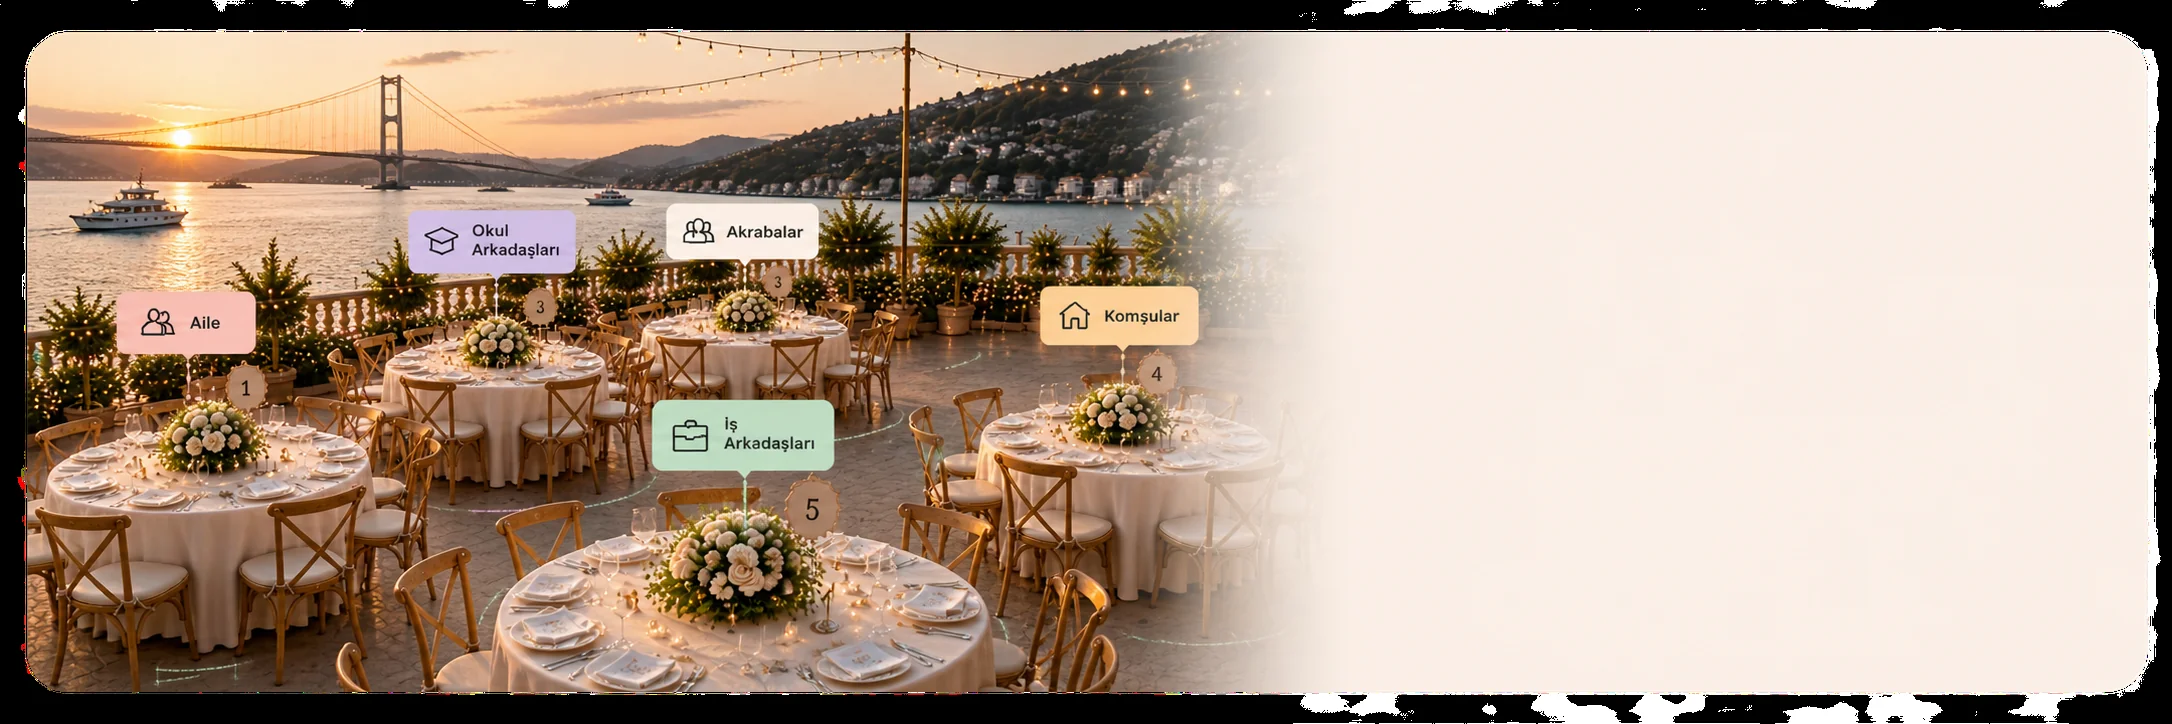
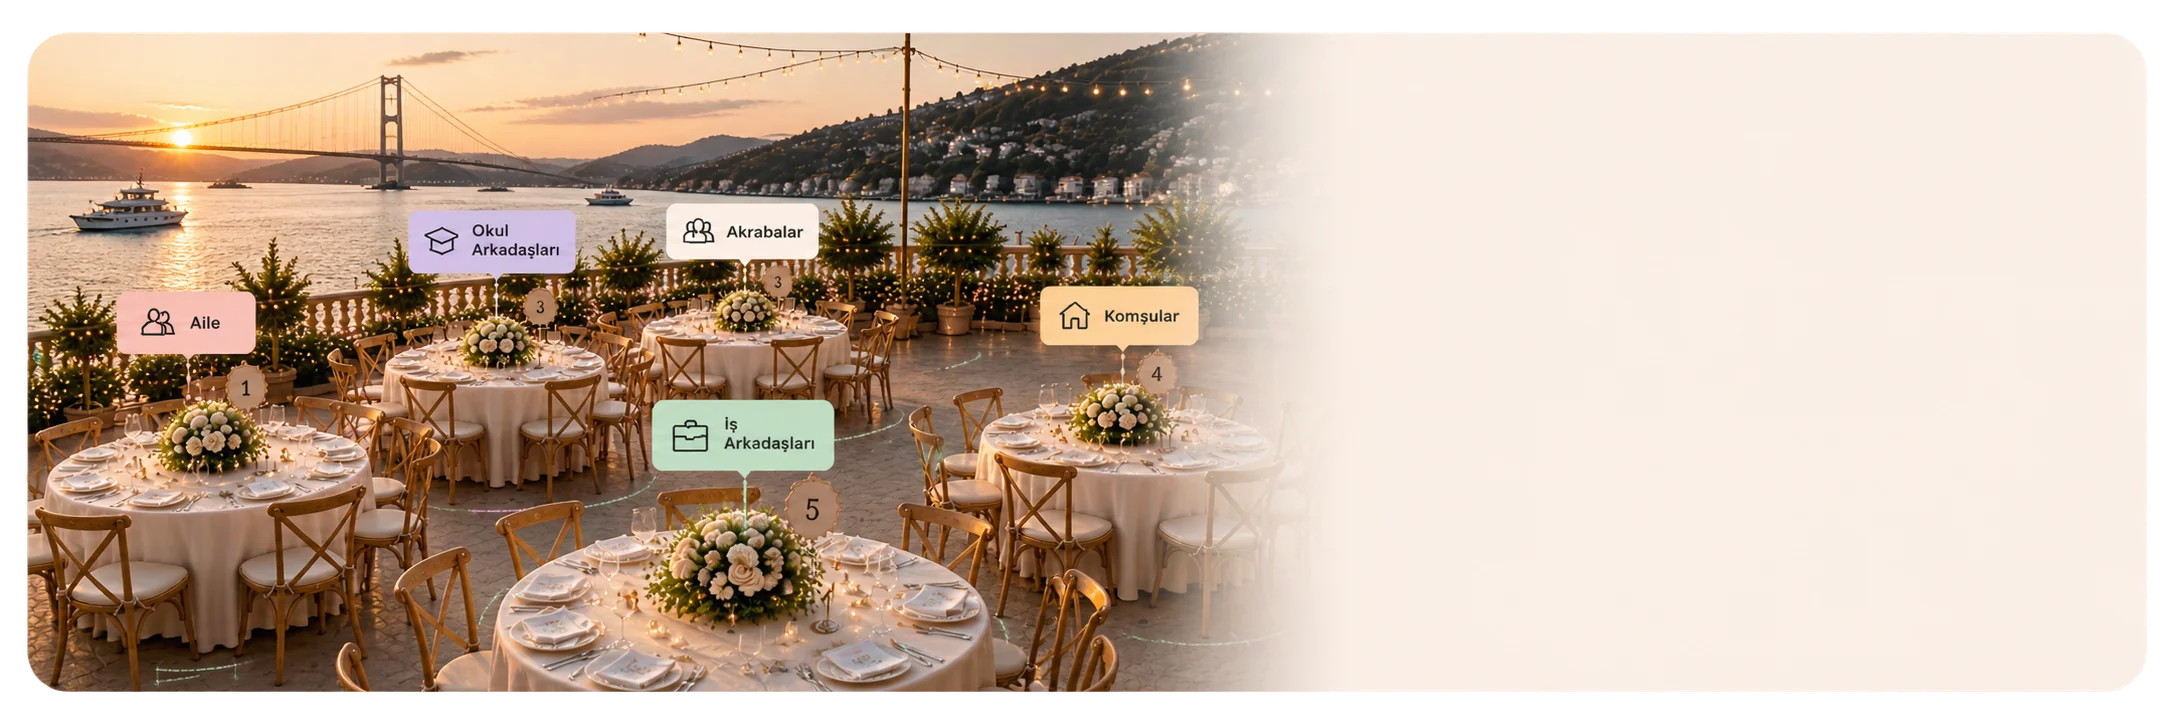
Masa kartı masaüstü: RGBA (siyah bg gitti) + transparan-kart + yazı sağa; masa cümle/ikon sırası (Davetli Takibi·Akıllı Yerleşim·Kolay Düzenleme) mobil+masaüstü; albüm masaüstü Tebrik hizası; Neden Nikahım 6 kart reorder + masa 2 ikon/yeni içerik

Changed region(s): [[0.0, 0.0, 1.0, 1.0]]

diff --git a/app/page.tsx b/app/page.tsx
@@ -1078,11 +1078,11 @@ export default function Home() {
               <h3 className="leading-[1.04]" style={{ fontFamily: 'var(--font-playfair)', color: '#C8686E', fontWeight: 600, fontSize: 'clamp(26px,7.2vw,38px)' }}>Masa düzeniniz,</h3>
               <h3 className="leading-[1.1] mt-0.5" style={{ fontFamily: 'var(--font-playfair)', color: '#1F1F1F', fontWeight: 600, fontSize: 'clamp(19px,5.2vw,28px)' }}>zahmetsizce hazır.</h3>
               <div className="mt-[clamp(8px,2.4vw,11px)]" style={{ width: 'clamp(44px,11vw,60px)', height: '2px', background: '#C8686E', borderRadius: '2px' }} />
-              <p className="mt-[clamp(8px,2.4vw,11px)] leading-relaxed" style={{ color: '#6E5A5A', fontSize: 'clamp(12px,3.3vw,13.5px)', maxWidth: '96%' }}>Davetlilerinizi ekleyin. Akıllı planlayıcı, herkes için en uygun masa düzenini oluştursun.</p>
+              <p className="mt-[clamp(8px,2.4vw,11px)] leading-relaxed" style={{ color: '#6E5A5A', fontSize: 'clamp(12px,3.3vw,13.5px)', maxWidth: '96%' }}>Katılımları takip edin, davetlilerinizi ekleyin. Akıllı planlayıcı, herkes için en uygun masa düzenini oluştursun.</p>
               <div className="grid grid-cols-3 gap-2 mt-[clamp(13px,3.6vw,18px)]">
                 {[
+                  { label: 'Davetli Takibi', icon: <svg className="w-[clamp(16px,4.5vw,19px)] h-[clamp(16px,4.5vw,19px)]" fill="none" stroke="currentColor" strokeWidth={1.8} viewBox="0 0 24 24"><path strokeLinecap="round" strokeLinejoin="round" d="M17 20h5v-2a4 4 0 00-3-3.87M9 20H4v-2a4 4 0 013-3.87m6-3.13a4 4 0 100-8 4 4 0 000 8zm6 0a3 3 0 100-6 3 3 0 000 6zm-12 0a3 3 0 100-6 3 3 0 000 6z" /></svg> },
                   { label: 'Akıllı Yerleşim', icon: <svg className="w-[clamp(16px,4.5vw,19px)] h-[clamp(16px,4.5vw,19px)]" fill="none" stroke="currentColor" strokeWidth={1.8} viewBox="0 0 24 24"><path strokeLinecap="round" strokeLinejoin="round" d="M12 2.5l1.8 5.2 5.2 1.8-5.2 1.8L12 16.5l-1.8-5.2L5 9.5l5.2-1.8z" /></svg> },
-                  { label: 'Davetli Yönetimi', icon: <svg className="w-[clamp(16px,4.5vw,19px)] h-[clamp(16px,4.5vw,19px)]" fill="none" stroke="currentColor" strokeWidth={1.8} viewBox="0 0 24 24"><path strokeLinecap="round" strokeLinejoin="round" d="M17 20h5v-2a4 4 0 00-3-3.87M9 20H4v-2a4 4 0 013-3.87m6-3.13a4 4 0 100-8 4 4 0 000 8zm6 0a3 3 0 100-6 3 3 0 000 6zm-12 0a3 3 0 100-6 3 3 0 000 6z" /></svg> },
                   { label: 'Kolay Düzenleme', icon: <svg className="w-[clamp(16px,4.5vw,19px)] h-[clamp(16px,4.5vw,19px)]" fill="none" stroke="currentColor" strokeWidth={1.8} viewBox="0 0 24 24"><path strokeLinecap="round" strokeLinejoin="round" d="M5 9l-3 3 3 3M9 5l3-3 3 3M15 19l-3 3-3-3M19 9l3 3-3 3M2 12h20M12 2v20" /></svg> },
                 ].map((b, i) => (
                   <div key={i} className="flex flex-col items-center text-center gap-1.5">
@@ -1093,20 +1093,20 @@ export default function Home() {
               </div>
             </div>
           </div>
-          {/* Masaüstü kart — görsel SOLDA, içerik SAĞDA */}
-          <div className="feature-card-hover hidden lg:block relative rounded-[28px] overflow-hidden mx-auto w-full lg:aspect-[3/1] lg:max-w-none" style={{ boxShadow: '0 18px 50px rgba(72,47,42,0.055), 0 2px 8px rgba(72,47,42,0.025)', border: '1px solid rgba(174,112,108,0.13)' }}>
-            <img src="/kart-masa-masaustu.webp" alt="Akıllı masa planlayıcısı" className="hidden lg:block absolute inset-0 w-full h-full object-cover pointer-events-none select-none" />
-            {/* Masaüstü — metin SAĞDA ortalı */}
-            <div className="hidden lg:flex absolute right-0 top-0 h-full w-[46%] flex-col justify-center pr-[100px] pl-6">
+          {/* Masaüstü kart — görsel SOLDA (transparan yuvarlak kart), içerik SAĞDA */}
+          <div className="feature-card-hover hidden lg:block relative mx-auto w-full lg:aspect-[3/1] lg:max-w-none">
+            <img src="/kart-masa-masaustu.webp" alt="Akıllı masa planlayıcısı" className="hidden lg:block absolute inset-0 w-full h-full object-contain pointer-events-none select-none" style={{ filter: 'drop-shadow(0 14px 34px rgba(72,47,42,0.09))' }} />
+            {/* Masaüstü — metin SAĞDA (krem alanda) */}
+            <div className="hidden lg:flex absolute right-0 top-0 h-full w-[40%] flex-col justify-center pr-[64px] pl-2">
               <div className="mb-5"><FeatureBadge label="AKILLI MASA PLANLAYICISI" /></div>
               <h3 className="leading-[1.06]" style={{ fontFamily: 'var(--font-playfair)', color: '#C8686E', fontWeight: 600, fontSize: 'clamp(24px, 2.2vw, 36px)' }}>Masa düzeniniz,</h3>
               <h3 className="leading-[1.1] mt-1" style={{ fontFamily: 'var(--font-playfair)', color: '#1F1F1F', fontWeight: 600, fontSize: 'clamp(19px, 1.8vw, 28px)' }}>zahmetsizce hazır.</h3>
               <div className="mt-3 mb-3" style={{ width: '60px', height: '2px', background: '#C8686E', borderRadius: '2px' }} />
-              <p className="leading-snug text-[13px] lg:text-[14px] mb-5 max-w-[420px]" style={{ color: '#6E5A5A' }}>Davetlilerinizi ekleyin. Akıllı planlayıcı,<br />herkes için en uygun masa düzenini oluştursun.</p>
+              <p className="leading-snug text-[13px] lg:text-[14px] mb-5 max-w-[420px]" style={{ color: '#6E5A5A' }}>Katılımları takip edin, davetlilerinizi ekleyin. Akıllı planlayıcı, herkes için en uygun masa düzenini oluştursun.</p>
               <div className="flex flex-col gap-3 items-start">
                 {[
+                  { label: 'Davetli Takibi', icon: <svg className="w-[17px] h-[17px]" fill="none" stroke="currentColor" strokeWidth={1.8} viewBox="0 0 24 24"><path strokeLinecap="round" strokeLinejoin="round" d="M17 20h5v-2a4 4 0 00-3-3.87M9 20H4v-2a4 4 0 013-3.87m6-3.13a4 4 0 100-8 4 4 0 000 8zm6 0a3 3 0 100-6 3 3 0 000 6zm-12 0a3 3 0 100-6 3 3 0 000 6z" /></svg> },
                   { label: 'Akıllı Yerleşim', icon: <svg className="w-[17px] h-[17px]" fill="none" stroke="currentColor" strokeWidth={1.8} viewBox="0 0 24 24"><path strokeLinecap="round" strokeLinejoin="round" d="M12 2.5l1.8 5.2 5.2 1.8-5.2 1.8L12 16.5l-1.8-5.2L5 9.5l5.2-1.8z" /></svg> },
-                  { label: 'Davetli Yönetimi', icon: <svg className="w-[17px] h-[17px]" fill="none" stroke="currentColor" strokeWidth={1.8} viewBox="0 0 24 24"><path strokeLinecap="round" strokeLinejoin="round" d="M17 20h5v-2a4 4 0 00-3-3.87M9 20H4v-2a4 4 0 013-3.87m6-3.13a4 4 0 100-8 4 4 0 000 8zm6 0a3 3 0 100-6 3 3 0 000 6zm-12 0a3 3 0 100-6 3 3 0 000 6z" /></svg> },
                   { label: 'Kolay Düzenleme', icon: <svg className="w-[17px] h-[17px]" fill="none" stroke="currentColor" strokeWidth={1.8} viewBox="0 0 24 24"><path strokeLinecap="round" strokeLinejoin="round" d="M5 9l-3 3 3 3M9 5l3-3 3 3M15 19l-3 3-3-3M19 9l3 3-3 3M2 12h20M12 2v20" /></svg> },
                 ].map((b, i) => (
                   <div key={i} className="flex items-center gap-2.5">
@@ -1339,8 +1339,8 @@ export default function Home() {
               </div>
             </div>
 
-            {/* SOL — Heading + açıklama + badges (zigzag: yazı solda) */}
-            <div className="absolute left-[20px] top-0 h-full w-[52%] flex flex-col justify-center pl-14 pr-4">
+            {/* SOL — Heading + açıklama + badges (zigzag: yazı solda, Tebrik hizası) */}
+            <div className="absolute left-0 top-0 h-full w-[52%] flex flex-col justify-center pl-[176px] pr-4">
               <div className="mb-5"><FeatureBadge label="FOTOĞRAF ALBÜMÜ" /></div>
               <h3 className="leading-[1.06]" style={{ fontFamily: 'var(--font-playfair)', color: '#C8686E', fontWeight: 600, fontSize: 'clamp(24px, 2.4vw, 36px)' }}>Her açıdan,</h3>
               <h3 className="leading-[1.1] mt-1" style={{ fontFamily: 'var(--font-playfair)', color: '#1F1F1F', fontWeight: 600, fontSize: 'clamp(19px, 1.8vw, 28px)' }}>sizin hikâyeniz.</h3>
@@ -1448,11 +1448,11 @@ export default function Home() {
           <div className="grid md:grid-cols-2 lg:grid-cols-3 gap-6 md:gap-7">
             {[
               { title: 'Canlı Yayın', desc: 'Düğününüz için size özel bir yayın sayfası oluşturulur. Davetliler bağlantıya dokunarak uygulama veya üyelik gerektirmeden yayını izleyebilir. Yayın kaydınız daha sonra tekrar izlenebilir.', badges: ['Özel Yayın Sayfası', 'Uygulamasız Katılım', 'Yayın Kaydı'], icon: <svg className="w-6 h-6" fill="none" stroke="currentColor" viewBox="0 0 24 24"><path strokeLinecap="round" strokeLinejoin="round" strokeWidth={1.8} d="M15 10l4.553-2.276A1 1 0 0121 8.618v6.764a1 1 0 01-1.447.894L15 14M5 18h8a2 2 0 002-2V8a2 2 0 00-2-2H5a2 2 0 00-2 2v8a2 2 0 002 2z" /></svg> },
-              { title: 'Altın Takma', desc: 'Davetliniz takmak istediği altını seçer ve güncel TL karşılığını doğrudan sizin hesabınıza gönderir. Nikahım paraya aracılık etmez ve gönderimden komisyon almaz.', badges: ['Doğrudan Hesabınıza', 'Aracısız', 'Komisyonsuz'], icon: <svg className="w-6 h-6" fill="none" stroke="currentColor" viewBox="0 0 24 24"><path strokeLinecap="round" strokeLinejoin="round" strokeWidth={1.8} d="M4 10h16M5 10L12 4l7 6M6 10v8M10 10v8M14 10v8M18 10v8M4 21h16" /></svg> },
+              { title: 'Akıllı Masa Planlayıcısı', desc: 'Davetli listenizi oluşturun, kimlerin katılacağını tek yerden takip edin. Akıllı planlayıcı, gelen davetlileriniz için en uygun masa düzenini oluştursun.', badges: ['Davetli Takibi', 'Akıllı Yerleşim', 'Sürükle & Düzenle'], dualIcon: true, icon: <svg className="w-6 h-6" fill="none" stroke="currentColor" viewBox="0 0 24 24"><rect x="3" y="3" width="7" height="7" rx="1.5" strokeWidth={1.8} /><rect x="14" y="3" width="7" height="7" rx="1.5" strokeWidth={1.8} /><rect x="3" y="14" width="7" height="7" rx="1.5" strokeWidth={1.8} /><rect x="14" y="14" width="7" height="7" rx="1.5" strokeWidth={1.8} /></svg>, icon2: <svg className="w-6 h-6" fill="none" stroke="currentColor" viewBox="0 0 24 24"><path strokeLinecap="round" strokeLinejoin="round" strokeWidth={1.8} d="M18 18.72a9.094 9.094 0 003.741-.479 3 3 0 00-4.682-2.72m.94 3.198l.001.031c0 .225-.012.447-.037.666A11.944 11.944 0 0112 21c-2.17 0-4.207-.576-5.963-1.584A6.062 6.062 0 016 18.719m12 0a5.971 5.971 0 00-.941-3.197m0 0A5.995 5.995 0 0012 12.75a5.995 5.995 0 00-5.058 2.772m0 0a3 3 0 00-4.681 2.72 8.986 8.986 0 003.74.477m.94-3.197a5.971 5.971 0 00-.94 3.197M15 6.75a3 3 0 11-6 0 3 3 0 016 0zm6 3a2.25 2.25 0 11-4.5 0 2.25 2.25 0 014.5 0zm-13.5 0a2.25 2.25 0 11-4.5 0 2.25 2.25 0 014.5 0z" /></svg> },
               { title: 'Tebrik Mesajları', desc: 'Davetlileriniz size video, sesli veya yazılı tebrik bırakabilir. Gelen tüm mesajları uygulama üzerinden tek yerde görüntüleyebilirsiniz.', badges: ['Video', 'Sesli', 'Yazılı'], dualIcon: true, icon: <svg className="w-6 h-6" fill="none" stroke="currentColor" viewBox="0 0 24 24"><path strokeLinecap="round" strokeLinejoin="round" strokeWidth={1.8} d="M15 10l4.553-2.276A1 1 0 0121 8.618v6.764a1 1 0 01-1.447.894L15 14M5 18h8a2 2 0 002-2V8a2 2 0 00-2-2H5a2 2 0 00-2 2v8a2 2 0 002 2z" /></svg>, icon2: <svg className="w-6 h-6" fill="none" stroke="currentColor" viewBox="0 0 24 24"><path strokeLinecap="round" strokeLinejoin="round" strokeWidth={1.8} d="M19 11a7 7 0 01-7 7m0 0a7 7 0 01-7-7m7 7v4m0 0H8m4 0h4m-4-8a3 3 0 01-3-3V5a3 3 0 116 0v6a3 3 0 01-3 3z" /></svg>, icon3: <svg className="w-6 h-6" fill="none" stroke="currentColor" viewBox="0 0 24 24"><path strokeLinecap="round" strokeLinejoin="round" strokeWidth={1.8} d="M12 20h9M16.5 3.5a2.12 2.12 0 013 3L7 19l-4 1 1-4 12.5-12.5z" /></svg> },
+              { title: 'Altın Takma', desc: 'Davetliniz takmak istediği altını seçer ve güncel TL karşılığını doğrudan sizin hesabınıza gönderir. Nikahım paraya aracılık etmez ve gönderimden komisyon almaz.', badges: ['Doğrudan Hesabınıza', 'Aracısız', 'Komisyonsuz'], icon: <svg className="w-6 h-6" fill="none" stroke="currentColor" viewBox="0 0 24 24"><path strokeLinecap="round" strokeLinejoin="round" strokeWidth={1.8} d="M4 10h16M5 10L12 4l7 6M6 10v8M10 10v8M14 10v8M18 10v8M4 21h16" /></svg> },
               { title: 'Fotoğraf Albümü', desc: 'Siz ve davetlileriniz telefondaki fotoğrafları aynı düğün albümüne yükleyebilirsiniz. Paylaşılan kareler çift onayından sonra albümde görüntülenir.', badges: ['Davetli Yükleme', 'Tek Albüm', 'Çift Onayı'], icon: <svg className="w-6 h-6" fill="none" stroke="currentColor" viewBox="0 0 24 24"><path strokeLinecap="round" strokeLinejoin="round" strokeWidth={1.8} d="M4 16l4.586-4.586a2 2 0 012.828 0L16 16m-2-2l1.586-1.586a2 2 0 012.828 0L20 14m-6-6h.01M6 20h12a2 2 0 002-2V6a2 2 0 00-2-2H6a2 2 0 00-2 2v12a2 2 0 002 2z" /></svg> },
               { title: 'Fotoğraf Baskısı', desc: 'Albümdeki istediğiniz fotoğrafları baskı için seçebilirsiniz. Baskı talepleri doğrudan fotoğrafçı paneline düşer ve süreç buradan takip edilir.', badges: ['Albümden Seçim', 'Baskı Talebi', 'Fotoğrafçı Paneli'], icon: <svg className="w-6 h-6" fill="none" stroke="currentColor" viewBox="0 0 24 24"><path strokeLinecap="round" strokeLinejoin="round" strokeWidth={1.8} d="M6 9V3h12v6M6 18H5a2 2 0 01-2-2v-3a2 2 0 012-2h14a2 2 0 012 2v3a2 2 0 01-2 2h-1M6 14h12v7H6z" /></svg> },
-              { title: 'Akıllı Masa Planlayıcısı', desc: 'Davetli listenizi oluşturun, yakınlık ve grup tercihlerini belirleyin. Akıllı planlayıcı uygun masa dağılımını hazırlasın; istediğiniz kişileri sürükleyerek son düzenlemeleri siz yapın.', badges: ['Akıllı Yerleşim', 'Grup Tercihleri', 'Sürükle & Düzenle'], icon: <svg className="w-6 h-6" fill="none" stroke="currentColor" viewBox="0 0 24 24"><rect x="3" y="3" width="7" height="7" rx="1.5" strokeWidth={1.8} /><rect x="14" y="3" width="7" height="7" rx="1.5" strokeWidth={1.8} /><rect x="3" y="14" width="7" height="7" rx="1.5" strokeWidth={1.8} /><rect x="14" y="14" width="7" height="7" rx="1.5" strokeWidth={1.8} /></svg> },
             ].map((feature, i) => (
               <div key={i}
                    className="premium-card group p-7 rounded-3xl bg-white transition-all duration-300 hover:-translate-y-1 flex flex-col h-full"
